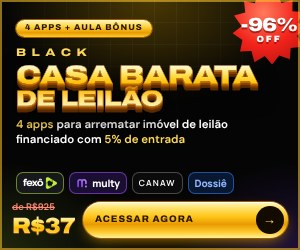
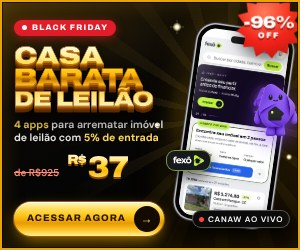
Redesign the 300x250 cover: phone mockup, mascot, light rays
Claude-Session: https://claude.ai/code/session_01Y5GQsmzB8L5onmrhmSVSPS

diff --git a/black-casa-barata/banners/banner-300x250.html b/black-casa-barata/banners/banner-300x250.html
@@ -6,55 +6,66 @@
 *{box-sizing:border-box;margin:0;padding:0}
 html,body{width:300px;height:250px;background:#000;overflow:hidden}
 .b{position:relative;width:300px;height:250px;overflow:hidden;font-family:"DM Sans",sans-serif;color:#fff;
- background:radial-gradient(70% 60% at 50% 0%,rgba(255,190,0,.28),transparent 70%),radial-gradient(60% 50% at 100% 100%,rgba(124,58,237,.22),transparent 70%),radial-gradient(60% 50% at 0% 100%,rgba(191,242,58,.14),transparent 70%),#050505}
-.b::before{content:"";position:absolute;inset:0;background-image:linear-gradient(rgba(255,255,255,.05) 1px,transparent 1px),linear-gradient(90deg,rgba(255,255,255,.05) 1px,transparent 1px);background-size:22px 22px;-webkit-mask-image:radial-gradient(ellipse 80% 70% at 50% 0%,#000,transparent 75%)}
-.b::after{content:"";position:absolute;inset:0;border-radius:0;box-shadow:inset 0 0 0 2px rgba(255,200,40,.55)}
-.burst{position:absolute;right:-6px;top:-8px;width:74px;height:74px;transform:rotate(12deg)}
+ background:radial-gradient(90px 90px at 228px 118px,rgba(255,190,0,.45),transparent 70%),radial-gradient(120% 80% at 0% 0%,rgba(255,170,0,.18),transparent 55%),linear-gradient(160deg,#141008 0%,#050505 55%,#000 100%)}
+/* raios de luz */
+.raios{position:absolute;left:228px;top:118px;width:520px;height:520px;margin:-260px 0 0 -260px;background:repeating-conic-gradient(from 0deg,rgba(255,210,90,.10) 0 6deg,transparent 6deg 20deg);-webkit-mask:radial-gradient(closest-side,#000 10%,transparent 70%);mask:radial-gradient(closest-side,#000 10%,transparent 70%)}
+.moldura{position:absolute;inset:0;box-shadow:inset 0 0 0 2px #e8a400,inset 0 0 0 3px rgba(0,0,0,.6),inset 0 0 26px rgba(255,180,0,.18);pointer-events:none;z-index:9}
+.estrela{position:absolute;width:14px;height:14px;background:radial-gradient(circle,#fff 0 12%,rgba(255,240,170,.9) 20%,transparent 46%),linear-gradient(90deg,transparent 46%,#fff 50%,transparent 54%),linear-gradient(0deg,transparent 46%,#fff 50%,transparent 54%);z-index:8}
+/* texto */
+.txt{position:absolute;left:14px;top:14px;width:162px;z-index:5}
+.tag{display:inline-flex;align-items:center;gap:5px;padding:4px 8px;border-radius:999px;background:#e11d2a;font:800 8px/1 Archivo;letter-spacing:.16em;text-transform:uppercase;box-shadow:0 2px 8px rgba(225,29,42,.5)}
+.tag i{width:5px;height:5px;border-radius:50%;background:#fff}
+.logo{margin-top:9px;font:900 25px/.9 Archivo;font-stretch:125%;letter-spacing:-.035em;text-transform:uppercase;
+ background:linear-gradient(180deg,#fffbe0 0%,#fff1a6 14%,#ffd93b 32%,#ffb800 47%,#c97a00 53%,#ffbf1f 63%,#ffe680 82%,#fff6c4 100%);-webkit-background-clip:text;background-clip:text;color:transparent;
+ -webkit-text-stroke:.35px #7a3d00;filter:drop-shadow(0 1px 0 #c46d00) drop-shadow(0 2px 0 #8a4200) drop-shadow(0 3px 0 #5a2a00) drop-shadow(0 8px 10px rgba(0,0,0,.8))}
+.logo span{display:block}
+.logo span+span{font-size:.86em}
+.sub{margin-top:9px;font:600 10.5px/1.3 "DM Sans";color:#e9e9e9}
+.sub b{color:#ffd95a;font-weight:700}
+.preco{display:flex;align-items:flex-end;gap:8px;margin-top:9px}
+.preco b{white-space:nowrap}
+.preco s{font:600 10px/1 "DM Sans";color:#ff8a73;padding-bottom:3px}
+.preco b{font:900 30px/.9 Archivo;font-stretch:112%;letter-spacing:-.04em;background:linear-gradient(180deg,#fffbe0,#ffd93b 40%,#ffb800 62%,#ffe680);-webkit-background-clip:text;background-clip:text;color:transparent;filter:drop-shadow(0 2px 0 #8a4200)}
+.preco b small{font-size:.45em;vertical-align:.95em;margin-right:2px}
+.cta{position:absolute;left:14px;bottom:14px;z-index:6;display:flex;align-items:center;gap:8px;height:34px;padding:0 4px 0 13px;border-radius:999px;
+ background:linear-gradient(180deg,#fff7c2 0%,#ffe066 18%,#ffc61a 40%,#e89a00 62%,#ffcb2e 84%,#fff0a0 100%);box-shadow:inset 0 1px 0 rgba(255,255,255,.85),0 0 0 1px #9a5a00,0 6px 18px -4px rgba(255,180,0,.8);color:#2a1600;font:800 9.5px/1 Archivo;letter-spacing:.1em;text-transform:uppercase}
+.cta i{display:grid;place-items:center;width:26px;height:26px;border-radius:50%;background:#140b00;color:#ffd95a;font-style:normal;font-size:12px}
+/* celular */
+.fone{position:absolute;left:186px;top:28px;width:96px;height:196px;transform:rotate(8deg);z-index:4;border-radius:18px;padding:4px;background:#050505;
+ box-shadow:0 0 0 1.5px #b9b9be,0 0 0 2.5px #3a3a3e,0 18px 30px rgba(0,0,0,.85),0 0 40px rgba(255,180,0,.35)}
+.fone .tela{position:relative;width:100%;height:100%;border-radius:14px;overflow:hidden;background:#fff}
+.fone img.app{width:100%;height:auto;display:block;margin-top:9px}
+.fone .ilha{position:absolute;left:50%;top:5px;width:30px;height:7px;margin-left:-15px;border-radius:9px;background:#000;z-index:2}
+.fone .reflexo{position:absolute;inset:0;background:linear-gradient(120deg,rgba(255,255,255,.35),transparent 30%,transparent 70%,rgba(255,255,255,.08));z-index:2}
+/* chips flutuantes */
+.chip{position:absolute;z-index:7;white-space:nowrap;display:flex;align-items:center;gap:4px;padding:5px 7px;border-radius:9px;font:800 9px/1 Manrope;letter-spacing:-.01em;box-shadow:0 6px 14px rgba(0,0,0,.6)}
+.c-fx{left:166px;top:150px;background:#17181d;box-shadow:inset 0 0 0 1px rgba(191,242,58,.6),0 6px 14px rgba(0,0,0,.6)}
+.c-fx img{height:11px}
+.c-cw{left:192px;top:210px;background:#0b0b0b;box-shadow:inset 0 0 0 1px rgba(255,255,255,.3),0 6px 14px rgba(0,0,0,.6);font:600 8px/1 "DM Sans";letter-spacing:.1em;color:#fff}
+.c-cw i{width:5px;height:5px;border-radius:50%;background:#ff453a}
+.masc{position:absolute;left:250px;top:84px;width:52px;height:52px;z-index:7;filter:drop-shadow(0 6px 10px rgba(124,58,237,.7))}
+.burst{position:absolute;left:236px;top:-6px;width:66px;height:66px;transform:rotate(12deg);z-index:8;filter:drop-shadow(0 4px 8px rgba(0,0,0,.6))}
 .burst::before{content:"";position:absolute;inset:0;background:radial-gradient(circle at 38% 30%,#ff7a5c,#f2231b 48%,#a80d0d);clip-path:polygon(50% 0,59% 12%,73% 5%,76% 20%,91% 18%,86% 33%,100% 40%,89% 51%,99% 64%,84% 69%,86% 84%,71% 82%,64% 96%,52% 87%,40% 98%,33% 84%,18% 88%,18% 72%,3% 66%,13% 54%,0 42%,14% 35%,9% 20%,24% 20%,26% 5%,40% 12%)}
 .burst span{position:absolute;inset:0;display:flex;flex-direction:column;align-items:center;justify-content:center;transform:rotate(-12deg);text-shadow:0 2px 0 rgba(90,0,0,.5)}
-.burst b{font:900 19px/1 Archivo;font-stretch:118%;letter-spacing:-.03em}
-.burst i{font:900 9px/1 Archivo;font-style:normal;letter-spacing:.2em;margin-top:1px}
-.top{position:relative;padding:14px 16px 0}
-.tag{display:inline-block;padding:4px 9px;border-radius:999px;background:linear-gradient(180deg,#fff7c2,#ffd23a 40%,#e89a00 75%,#ffcb2e);color:#2a1600;font:800 8.5px/1 Archivo;letter-spacing:.12em;text-transform:uppercase;box-shadow:0 0 0 1px #9a5a00}
-.black{margin-top:10px;font:800 11px/1 Archivo;font-stretch:125%;letter-spacing:.5em;color:#ffd95a}
-.logo{margin-top:5px;font:900 27px/.94 Archivo;white-space:nowrap;font-stretch:125%;letter-spacing:-.035em;text-transform:uppercase;
- background:linear-gradient(180deg,#fffbe0 0%,#fff1a6 14%,#ffd93b 30%,#ffb800 46%,#c97a00 52%,#ffbf1f 62%,#ffe680 80%,#fff6c4 100%);-webkit-background-clip:text;background-clip:text;color:transparent;
- -webkit-text-stroke:.35px #7a3d00;filter:drop-shadow(0 1px 0 #c46d00) drop-shadow(0 2px 0 #8a4200) drop-shadow(0 3px 0 #5a2a00) drop-shadow(0 6px 10px rgba(0,0,0,.7))}
-.logo span{display:block;font-size:.84em}
-.sub{margin-top:9px;font:600 11.5px/1.3 "DM Sans";color:#fff}
-.sub em{font-style:normal;color:#ffd95a}
-.apps{position:absolute;left:16px;bottom:56px;display:flex;gap:5px}
-.app{display:flex;align-items:center;gap:4px;height:22px;padding:0 7px;border-radius:7px;font:800 10px/1 Manrope;letter-spacing:-.02em}
-.app img{height:12px;width:auto}
-.app svg{width:12px;height:12px}
-.fx{background:#17181d;box-shadow:inset 0 0 0 1px rgba(191,242,58,.5)}
-.my{background:#1a0f33;box-shadow:inset 0 0 0 1px rgba(168,85,247,.55)}
-.cw{background:#0b0b0b;box-shadow:inset 0 0 0 1px rgba(255,255,255,.25);font-weight:600;letter-spacing:.14em;font-size:8.5px}
-.ds{background:#0a1730;box-shadow:inset 0 0 0 1px rgba(59,130,246,.55);color:#8db8ff}
-.rod{position:absolute;left:12px;right:12px;bottom:12px;display:flex;align-items:center;gap:8px}
-.preco{flex:none;line-height:1}
-.preco s{display:block;font:600 9.5px/1 "DM Sans";color:#ff8a73}
-.preco b{display:block;margin-top:2px;font:900 22px/1 Archivo;font-stretch:112%;letter-spacing:-.03em;background:linear-gradient(180deg,#fffbe0,#ffd93b 40%,#ffb800 60%,#ffe680);-webkit-background-clip:text;background-clip:text;color:transparent;filter:drop-shadow(0 1px 0 #8a4200)}
-.cta{flex:1;display:flex;align-items:center;justify-content:space-between;height:36px;padding:0 4px 0 12px;border-radius:999px;background:linear-gradient(180deg,#fff7c2 0%,#ffe066 18%,#ffc61a 40%,#e89a00 62%,#ffcb2e 84%,#fff0a0 100%);box-shadow:inset 0 1px 0 rgba(255,255,255,.8),0 0 0 1px #9a5a00,0 6px 16px -6px rgba(255,180,0,.8);color:#2a1600;font:800 9.5px/1 Archivo;letter-spacing:.1em;text-transform:uppercase}
-.cta i{display:grid;place-items:center;width:28px;height:28px;border-radius:50%;background:#140b00;color:#ffd95a;font-style:normal;font-size:13px}
+.burst b{font:900 17px/1 Archivo;font-stretch:118%;letter-spacing:-.03em}
+.burst i{font:900 8px/1 Archivo;font-style:normal;letter-spacing:.2em;margin-top:1px}
 </style></head><body>
 <div class="b">
+  <div class="raios"></div>
+  <div class="fone"><div class="tela"><i class="ilha"></i><img class="app" src="../assets/video/fexo.webp" alt=""><i class="reflexo"></i></div></div>
+  <img class="masc" src="../assets/multy.webp" alt="">
+  <span class="chip c-fx"><img src="../assets/fexo-logo.webp" alt="Fexô"></span>
+  <span class="chip c-cw"><i></i>CANAW AO VIVO</span>
   <div class="burst"><span><b>-96%</b><i>OFF</i></span></div>
-  <div class="top">
-    <span class="tag">4 apps + aula bônus</span>
-    <p class="black">BLACK</p>
-    <h1 class="logo">Casa Barata<span>de Leilão</span></h1>
-    <p class="sub"><em>4 apps</em> para arrematar imóvel de leilão<br>financiado com <em>5% de entrada</em></p>
+  <i class="estrela" style="left:170px;top:20px"></i><i class="estrela" style="left:282px;top:150px;transform:scale(.7)"></i><i class="estrela" style="left:150px;top:118px;transform:scale(.6)"></i>
+
+  <div class="txt">
+    <span class="tag"><i></i>Black Friday</span>
+    <h1 class="logo"><span>Casa Barata</span><span>de Leilão</span></h1>
+    <p class="sub"><b>4 apps</b> para arrematar imóvel de leilão com <b>5% de entrada</b></p>
+    <div class="preco"><s>de R$925</s><b><small>R$</small>37</b></div>
   </div>
-  <div class="apps">
-    <span class="app fx"><img src="../assets/fexo-logo.webp" alt="Fexô"></span>
-    <span class="app my"><svg viewBox="0 0 32 32"><defs><linearGradient id="g" x1="3" y1="27" x2="29" y2="5" gradientUnits="userSpaceOnUse"><stop stop-color="#7c3aed"/><stop offset="1" stop-color="#c084fc"/></linearGradient></defs><path d="M5.5 25.5V12.5a5.25 5.25 0 0 1 10.5 0v13M16 12.5a5.25 5.25 0 0 1 10.5 0V17" fill="none" stroke="url(#g)" stroke-width="4.4" stroke-linecap="round"/><circle cx="26.5" cy="25.3" r="2.6" fill="#c084fc"/></svg>multy</span>
-    <span class="app cw">CANAW</span>
-    <span class="app ds">Dossiê</span>
-  </div>
-  <div class="rod">
-    <div class="preco"><s>de R$925</s><b>R$37</b></div>
-    <div class="cta">Acessar agora<i>→</i></div>
-  </div>
+  <div class="cta">Acessar agora<i>→</i></div>
+  <div class="moldura"></div>
 </div>
 </body></html>
